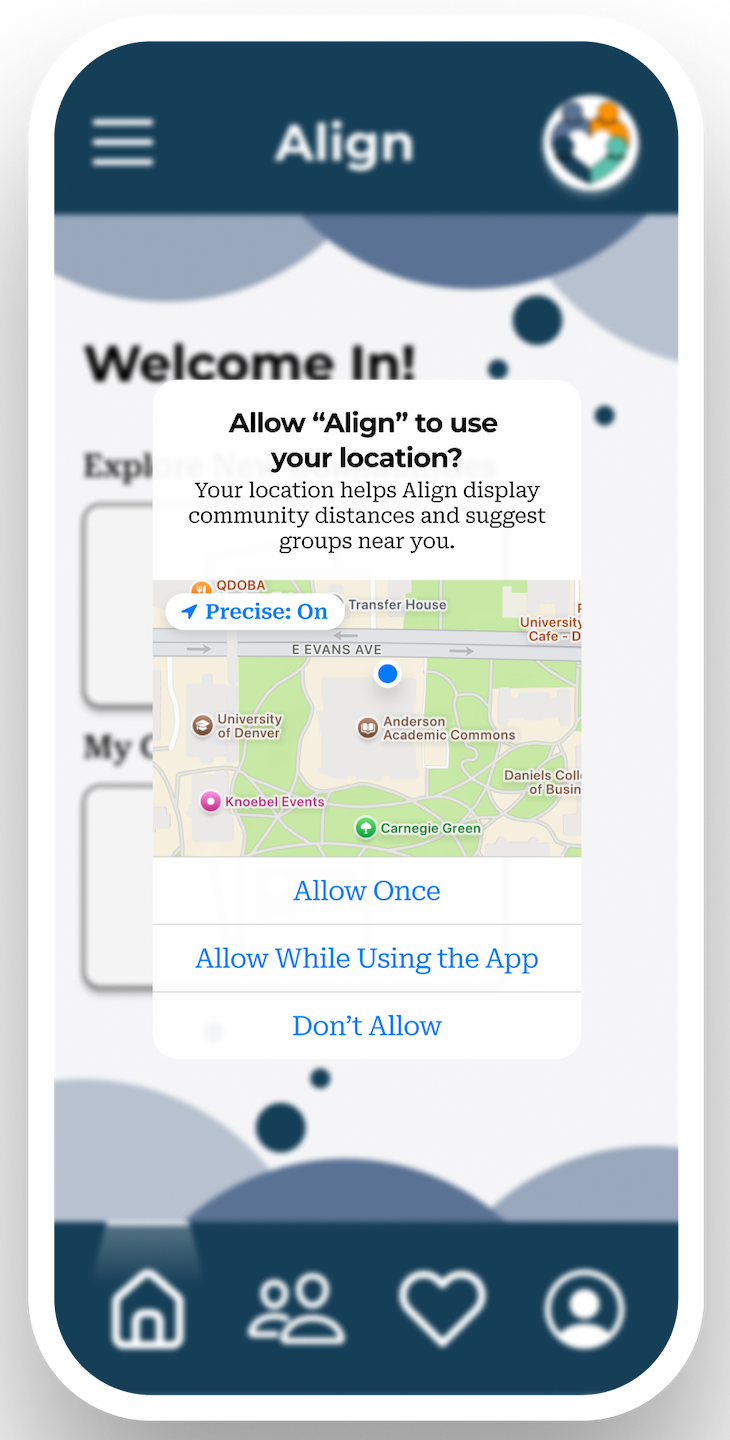
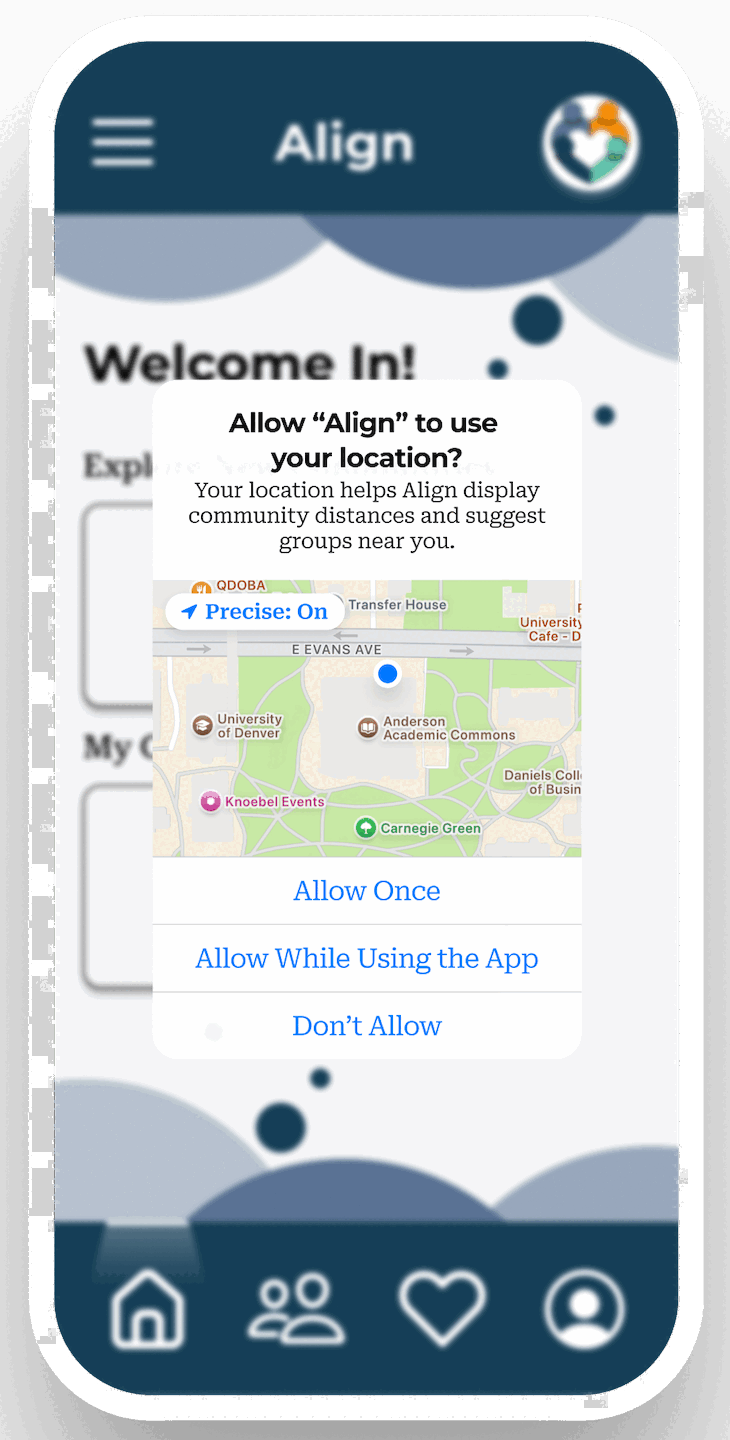
feat: RC project data, popup layout, image renames, placeholder cleanup

diff --git a/src/components/ProjectModal.jsx b/src/components/ProjectModal.jsx
@@ -1,5 +1,5 @@
 import { useEffect, useState } from 'react';
-import { figmaData, getProjectImages } from '../data/portfolio.js';
+import { getProjectImages } from '../data/portfolio.js';
 import styles from './ProjectModal.module.css';
 
 const figmaBadgeIcon = (
@@ -23,12 +23,26 @@ function getFigmaEmbedUrl(url) {
   return `https://www.figma.com/embed?embed_host=share&url=${encodeURIComponent(url)}`;
 }
 
+// Render a longDesc as paragraphs (split on blank lines). If the final paragraph
+// is wrapped in *asterisks*, render it italicized and dimmed as a footer note.
+function renderDescription(text) {
+  const paras = text.split('\n\n').map((p) => p.trim()).filter(Boolean);
+  return paras.map((para, i) => {
+    const isNote = i === paras.length - 1 && para.length > 1 && para.startsWith('*') && para.endsWith('*');
+    return isNote ? (
+      <em key={i} className={styles.descNote}>{para.slice(1, -1).trim()}</em>
+    ) : (
+      <p key={i} className={styles.descPara}>{para}</p>
+    );
+  });
+}
+
 // General-purpose project modal. The `figma: true` flag on the project data is
 // the authoritative switch for the warm Figma panel treatment ("Figma Design"
-// badge, orange accents). Figma media comes from SVG screens (figmaData, matched
-// by title) and/or an interactive prototype iframe (links.figma). Screenshot
-// galleries come from the generated manifest via getProjectImages (a flat array,
-// or a { group: [...] } object rendered as labeled rows).
+// badge, orange accents). Figma media comes from an interactive prototype iframe
+// (links.figma). Screenshot galleries come from the generated manifest via
+// getProjectImages (a flat array, or a { group: [...] } object rendered as
+// labeled rows). Text-heavy projects with images use a stacked layout.
 export default function ProjectModal({ project, onClose }) {
   // Keep the last project mounted so content stays visible while fading out.
   const [current, setCurrent] = useState(null);
@@ -56,11 +70,6 @@ export default function ProjectModal({ project, onClose }) {
   const links = current?.links || {};
   const linkEntries = Object.entries(links).filter(([, v]) => v);
 
-  // SVG phone screens (Lucent/Lattice/Roadrunner) — looked up by title; figmaData
-  // entries passed straight from the home drawer already carry their own screens.
-  const screens = current?.screens
-    || (isFigma ? figmaData.find((f) => f.title === current?.title)?.screens : null)
-    || [];
   const figmaEmbedUrl = getFigmaEmbedUrl(links.figma);
 
   // Manifest images: flat array or grouped object.
@@ -70,7 +79,12 @@ export default function ProjectModal({ project, onClose }) {
   const groupRows = grouped ? Object.entries(grouped).filter(([, imgs]) => imgs.length > 0) : [];
   const hasImages = grouped ? groupRows.length > 0 : flatImages.length > 0;
 
-  const hasMedia = screens.length > 0 || !!figmaEmbedUrl || hasImages;
+  const hasMedia = !!figmaEmbedUrl || hasImages;
+
+  // Long descriptions next to a short image column leave big empty gaps in the
+  // side-by-side layout. For text-heavy projects that also have images, stack the
+  // full-width description on top and scroll the images in a row below.
+  const stacked = description.length > 600 && hasImages;
 
   return (
     <div className={`${styles.modal} ${open ? styles.open : ''}`}>
@@ -87,29 +101,11 @@ export default function ProjectModal({ project, onClose }) {
           </div>
           <button className={styles.close} onClick={onClose} aria-label="Close">✕</button>
         </div>
-        <div className={styles.body}>
+        <div className={`${styles.body} ${stacked ? styles.stacked : ''}`}>
           {current && (
             <>
               {hasMedia && (
                 <div className={styles.mediaCol}>
-                  {screens.length > 0 && (
-                    <div className={styles.screens}>
-                      {screens.map((s, i) => (
-                        <div
-                          className={styles.phoneWrap}
-                          key={i}
-                          style={{ transform: i === 0 ? 'scale(1)' : 'scale(0.88)' }}
-                        >
-                          <div className={styles.phone} style={{ opacity: i === 0 ? 1 : 0.72 }}>
-                            <div className={styles.phoneNotch}></div>
-                            <div className={styles.phoneScreen} dangerouslySetInnerHTML={{ __html: s.svg }}></div>
-                            <div className={styles.phoneHome}></div>
-                          </div>
-                          <div className={styles.phoneLbl}>{s.label}</div>
-                        </div>
-                      ))}
-                    </div>
-                  )}
                   {figmaEmbedUrl && (
                     <div className={styles.embedWrap}>
                       {/* TODO before deploy: confirm Figma prototype is shared as "anyone with the link can view" or iframe will show login wall */}
@@ -169,7 +165,7 @@ export default function ProjectModal({ project, onClose }) {
                   <div className={styles.infoTitle}>{current.title}</div>
                   <div className={`${styles.infoType} ${isFigma ? '' : styles.plain}`}>{current.type}</div>
                 </div>
-                <div className={styles.infoDesc}>{description}</div>
+                <div className={styles.infoDesc}>{renderDescription(description)}</div>
                 {pills.length > 0 && (
                   <div className={styles.tags}>
                     {pills.map((t, i) => (
@@ -184,16 +180,6 @@ export default function ProjectModal({ project, onClose }) {
                         {LINK_LABELS[key] || key} ↗
                       </a>
                     ))}
-                  </div>
-                )}
-                {figmaEmbedUrl && (
-                  <div className={styles.note}>
-                    ↑ Interactive Figma embed inside the site. If the prototype ever fails to load, the Figma link above is the fallback.
-                  </div>
-                )}
-                {screens.length > 0 && (
-                  <div className={styles.note}>
-                    ↑ Illustrated mockups representing Figma designs. Swap in real exported frames or Figma embeds when building.
                   </div>
                 )}
               </div>

diff --git a/src/components/ProjectModal.module.css b/src/components/ProjectModal.module.css
@@ -96,18 +96,19 @@
 @media (max-width: 920px) {
   .body { flex-direction: column; }
 }
-.screens {
-  display: flex;
-  gap: 1.2rem;
-  align-items: flex-end;
-  flex: 1;
-  justify-content: center;
-}
-.phoneWrap {
-  display: flex;
+/* Stacked layout for text-heavy projects that also have images: full-width
+   description on top, images scrolling in a row below. Avoids the big empty gaps
+   that appear when a long description sits beside a short image column. */
+.body.stacked {
   flex-direction: column;
-  align-items: center;
-  gap: 0.6rem;
+}
+.body.stacked .info {
+  width: 100%;
+  order: 1;
+}
+.body.stacked .mediaCol {
+  width: 100%;
+  order: 2;
 }
 .phoneLbl {
   font-size: 0.6rem;
@@ -115,25 +116,12 @@
   text-transform: uppercase;
   color: rgba(232, 240, 252, 0.62);
 }
-.phone {
-  width: 132px;
-  background: #0A0E1A;
-  border: 2px solid rgba(255, 255, 255, 0.11);
-  border-radius: 22px;
-  padding: 10px 8px;
-  box-shadow: 0 14px 40px rgba(0, 0, 0, 0.55), inset 0 1px 0 rgba(255, 255, 255, 0.05);
-}
 .phoneNotch {
   width: 40px;
   height: 6px;
   background: rgba(255, 255, 255, 0.11);
   border-radius: 3px;
   margin: 0 auto 8px;
-}
-.phoneScreen {
-  border-radius: 12px;
-  overflow: hidden;
-  background: #070A12;
 }
 .phoneHome {
   width: 24px;
@@ -172,6 +160,20 @@
   line-height: 1.68;
   color: rgba(232, 240, 252, 0.68);
   font-weight: 300;
+  text-align: left;
+}
+.descPara {
+  margin: 0 0 0.7rem;
+}
+.descPara:last-child {
+  margin-bottom: 0;
+}
+/* Final *asterisk-wrapped* paragraph rendered as a dimmed footer note. */
+.descNote {
+  display: block;
+  margin-top: 0.7rem;
+  font-style: italic;
+  opacity: 0.65;
 }
 .tags {
   display: flex;
@@ -186,14 +188,6 @@
   color: #C4824C;
   border: 0.5px solid rgba(255, 157, 77, 0.16);
 }
-.note {
-  font-size: 0.68rem;
-  color: rgba(232, 240, 252, 0.2);
-  font-style: italic;
-  line-height: 1.5;
-  margin-top: 0.2rem;
-}
-
 /* ── NON-FIGMA (plain) VARIANT — blue accent instead of warm orange ── */
 .panel.plain {
   border-color: rgba(106, 174, 224, 0.28);

diff --git a/src/data/portfolio.js b/src/data/portfolio.js
@@ -45,11 +45,17 @@ export const projects = [
   {
     id: 'roadrunner-connect', num: '04', title: 'Roadrunner Connect', type: 'Mobile · Project Lead',
     desc: 'Campus engagement app for the University of Denver.',
-    shortDesc: 'Interactive campus engagement app I led end-to-end as Project Lead.',
-    longDesc: 'Led Roadrunner Connect, an interactive campus engagement app, as Project Lead. Built the mobile app in Flutter (Dart), the back end with MongoDB/Node.js/Express, and the website in React, with Firebase authentication (Google/iOS), event check-ins, photo/comment uploads, and a rewards system (badges, challenges, giveaways, leaderboards). Ran an Agile team of 5 on two-week sprints and presented updates to 15+ stakeholders.',
-    skills: ['Flutter', 'Firebase', 'MongoDB', 'Figma', 'Mobile & Web Dev', 'HCI', 'Project Management'],
+    shortDesc: 'Full-stack campus engagement app built for and now owned by MSU Denver, combining interactive maps, gamified rewards, and social features. Led end-to-end as Project Lead and Scrum Master, from initial design through public App Store launch.',
+    longDesc: `Roadrunner Connect is a student-built mobile app helping the MSU Denver and broader Denver community discover campus events, check in, earn rewards, and connect with each other. I joined as an intern and grew into the Project Lead and Scrum Master role, overseeing a team of 5 through two-week Agile sprints using ZenHub, daily standups, and OKR tracking. My design concept was selected by stakeholders as the base design the team built from.\n\nI led UI/UX in Figma and built the Flutter mobile frontend and React website, collaborating on the Node.js and MongoDB backend hosted on AWS. Integrations include Google Maps API, Firebase for authentication, Gravatar for team profiles, and a Python-based calendar parser pulling events from multiple MSU Denver and Auraria campus sources including Trumba and Roadrunner Link.\n\nKey features include event check-ins, photo and comment uploads, a feather-based rewards system with a confetti animation, leaderboards, giveaways, badges with earned animations, map and list and calendar views, a social friends system, and a comprehensive admin panel for managing users, events, and placemarks. The admin map tool lets administrators trace building outlines by physically walking the campus, encouraging community presence while keeping the map up to date as campus changes.\n\nI implemented light and dark mode with accessibility standards appropriate for a government-affiliated institution.\n\nI handled marketing through Canva including posters, flyers, and merch, documented progress in SharePoint and GitHub READMEs, and conducted beta launches and user testing sessions with iterative feedback cycles via Qualtrics. Getting approvals through school officials and stakeholders was a regular part of the process, covering branding guidelines, mascot use, and app store compliance. I coordinated a photoshoot with Rowdy, the school mascot, and designed the peeking Rowdy cutout used throughout the app.\n\nEvents presented at or tabled: women's volleyball and men's basketball booths with QR code advertising, Undergraduate Research Conference, Faculty Research Symposium, Presidents Cabinet, CS Advisory Board, CS Community Hours, and an OER Celebration.\n\n*The app is now officially owned by MSU Denver. Because of this, the GitHub repository and internal Figma designs are not publicly shareable, but the live app and its website are available below.*`,
+    skills: ['Flutter', 'Firebase', 'MongoDB', 'Figma', 'React', 'Node.js', 'Python', 'Google Maps API', 'AWS', 'Git/GitHub', 'ZenHub', 'Agile', 'Scrum', 'Mobile & Web Dev', 'Project Management', 'HCI', 'Accessibility', 'UI/UX Design', 'User Testing', 'Canva', 'Qualtrics', 'SharePoint', 'Documentation', 'Stakeholder Communication', 'Marketing', 'Public Speaking', 'Community Outreach', 'App Store Deployment'],
     links: { website: 'https://roadrunnerconnect.co' },
-    lav: true, figma: true,
+    badge: 'Project Lead',
+    // Explicit preview order: Cece & Kade on the left, community hour audience on the right.
+    previewImages: [
+      'figma/roadrunner_connect/community_hour_cece_and_kade.jpg',
+      'figma/roadrunner_connect/community_hour_1_audience.jpg',
+    ],
+    lav: true, figma: false,
   },
   {
     id: 'spiderbyte', num: '05', title: 'SpiderByte', type: 'Hackathon · 2nd place',
@@ -106,29 +112,16 @@ export const figmaData = [
     id: 1, num: '02', title: 'Lucent', type: 'Mobile · Flutter',
     desc: 'AI mental wellness app. Mood tracking, journaling, and AI check-ins. Designed end-to-end in Figma before development.',
     tags: ['Mobile', 'Health', 'Figma', 'Flutter'],
-    screens: [
-      { label: 'Home', svg: `<svg width="116" height="224" viewBox="0 0 116 224" xmlns="http://www.w3.org/2000/svg"><rect width="116" height="224" fill="#0D1020"/><rect x="8" y="10" width="100" height="18" rx="5" fill="#1A1F35"/><circle cx="21" cy="19" r="6" fill="#7B8CDE"/><rect x="33" y="15" width="40" height="4" rx="2" fill="#252B48"/><rect x="78" y="15" width="18" height="4" rx="2" fill="#252B48"/><rect x="8" y="36" width="100" height="56" rx="8" fill="#141828"/><circle cx="58" cy="58" r="16" fill="rgba(123,140,222,0.12)" stroke="#7B8CDE" stroke-width="1"/><text x="58" y="63" text-anchor="middle" fill="#7B8CDE" font-size="14" font-family="sans-serif">✦</text><rect x="16" y="82" width="52" height="4" rx="2" fill="#252B48"/><rect x="16" y="88" width="36" height="3" rx="1.5" fill="#1E2440"/><rect x="8" y="102" width="48" height="44" rx="7" fill="#141828"/><rect x="62" y="102" width="46" height="44" rx="7" fill="#141828"/><rect x="15" y="110" width="30" height="3" rx="1.5" fill="#252B48"/><rect x="15" y="116" width="22" height="10" rx="3" fill="rgba(123,140,222,0.2)"/><rect x="15" y="129" width="26" height="3" rx="1.5" fill="#1A2040"/><rect x="15" y="134" width="18" height="3" rx="1.5" fill="#1A2040"/><rect x="69" y="110" width="30" height="3" rx="1.5" fill="#252B48"/><rect x="69" y="116" width="22" height="10" rx="3" fill="rgba(176,144,224,0.2)"/><rect x="69" y="129" width="26" height="3" rx="1.5" fill="#1A2040"/><rect x="8" y="154" width="100" height="3" rx="1.5" fill="#1A1F35"/><rect x="8" y="164" width="100" height="34" rx="7" fill="#141828"/><rect x="16" y="172" width="62" height="3" rx="1.5" fill="#252B48"/><rect x="16" y="178" width="42" height="3" rx="1.5" fill="#1E2440"/><rect x="84" y="170" width="16" height="16" rx="4" fill="rgba(123,140,222,0.15)"/><rect x="17" y="208" width="18" height="10" rx="3" fill="#1E2440"/><rect x="43" y="208" width="18" height="10" rx="3" fill="rgba(123,140,222,0.22)"/><rect x="69" y="208" width="18" height="10" rx="3" fill="#1E2440"/><rect x="90" y="208" width="18" height="10" rx="3" fill="#1E2440"/></svg>` },
-      { label: 'Journal', svg: `<svg width="116" height="224" viewBox="0 0 116 224" xmlns="http://www.w3.org/2000/svg"><rect width="116" height="224" fill="#0D1020"/><rect x="8" y="10" width="62" height="6" rx="3" fill="#252B48"/><rect x="8" y="20" width="42" height="4" rx="2" fill="#1A1F35"/><rect x="8" y="32" width="100" height="52" rx="8" fill="#141828" stroke="rgba(123,140,222,0.18)" stroke-width="0.5"/><rect x="16" y="42" width="84" height="3" rx="1.5" fill="#252B48"/><rect x="16" y="48" width="72" height="3" rx="1.5" fill="#1A2040"/><rect x="16" y="54" width="77" height="3" rx="1.5" fill="#1A2040"/><rect x="16" y="60" width="57" height="3" rx="1.5" fill="#1A2040"/><rect x="16" y="70" width="32" height="9" rx="3" fill="rgba(123,140,222,0.28)"/><rect x="8" y="94" width="100" height="1" rx="0.5" fill="#1A1F35"/><rect x="8" y="102" width="47" height="6" rx="3" fill="#252B48"/><rect x="8" y="115" width="100" height="30" rx="6" fill="#141828"/><circle cx="23" cy="130" r="9" fill="rgba(176,144,224,0.14)"/><rect x="38" y="123" width="52" height="3" rx="1.5" fill="#252B48"/><rect x="38" y="130" width="40" height="3" rx="1.5" fill="#1A2040"/><rect x="38" y="137" width="30" height="3" rx="1.5" fill="#1A2040"/><rect x="8" y="151" width="100" height="30" rx="6" fill="#141828"/><circle cx="23" cy="166" r="9" fill="rgba(123,140,222,0.14)"/><rect x="38" y="159" width="52" height="3" rx="1.5" fill="#252B48"/><rect x="38" y="166" width="40" height="3" rx="1.5" fill="#1A2040"/><rect x="38" y="173" width="30" height="3" rx="1.5" fill="#1A2040"/><rect x="23" y="195" width="70" height="22" rx="7" fill="#7B8CDE"/><rect x="46" y="203" width="28" height="4" rx="2" fill="rgba(255,255,255,0.72)"/></svg>` }
-    ]
   },
   {
     id: 2, num: '03', title: 'Lattice', type: 'Mobile · Flutter',
     desc: 'AI learning path generator. Grid-inspired UI, onboarding flow, and streaks — all mocked in Figma before development.',
     tags: ['Mobile', 'Education', 'Figma', 'Flutter'],
-    screens: [
-      { label: 'Onboarding', svg: `<svg width="116" height="224" viewBox="0 0 116 224" xmlns="http://www.w3.org/2000/svg"><rect width="116" height="224" fill="#080C10"/><defs><pattern id="g" width="14" height="14" patternUnits="userSpaceOnUse"><path d="M14 0L0 0 0 14" fill="none" stroke="rgba(106,174,224,0.07)" stroke-width="0.5"/></pattern></defs><rect width="116" height="224" fill="url(#g)"/><circle cx="58" cy="54" r="24" fill="rgba(106,174,224,0.07)" stroke="rgba(106,174,224,0.28)" stroke-width="1"/><circle cx="58" cy="54" r="13" fill="rgba(106,174,224,0.1)" stroke="#6AAEE0" stroke-width="1"/><line x1="49" y1="54" x2="67" y2="54" stroke="#6AAEE0" stroke-width="1.5" stroke-linecap="round"/><line x1="58" y1="45" x2="58" y2="63" stroke="#6AAEE0" stroke-width="1.5" stroke-linecap="round"/><line x1="49" y1="45" x2="67" y2="63" stroke="rgba(106,174,224,0.38)" stroke-width="0.8"/><line x1="67" y1="45" x2="49" y2="63" stroke="rgba(106,174,224,0.38)" stroke-width="0.8"/><rect x="25" y="86" width="66" height="7" rx="3.5" fill="#1A2535"/><rect x="33" y="88" width="36" height="3" rx="1.5" fill="#6AAEE0"/><rect x="21" y="99" width="74" height="5" rx="2.5" fill="#1A2535"/><rect x="21" y="107" width="74" height="5" rx="2.5" fill="#1A2535"/><rect x="8" y="120" width="100" height="24" rx="6" fill="#0E1825" stroke="rgba(106,174,224,0.18)" stroke-width="0.5"/><rect x="16" y="128" width="57" height="3" rx="1.5" fill="#1A2535"/><rect x="77" y="126" width="14" height="8" rx="3" fill="rgba(106,174,224,0.28)"/><rect x="8" y="150" width="100" height="24" rx="6" fill="#0E1825" stroke="rgba(106,174,224,0.18)" stroke-width="0.5"/><rect x="16" y="158" width="47" height="3" rx="1.5" fill="#1A2535"/><rect x="77" y="156" width="14" height="8" rx="3" fill="rgba(106,174,224,0.12)"/><rect x="15" y="184" width="86" height="24" rx="7" fill="#6AAEE0"/><rect x="39" y="193" width="38" height="4" rx="2" fill="rgba(255,255,255,0.8)"/></svg>` },
-      { label: 'Path', svg: `<svg width="116" height="224" viewBox="0 0 116 224" xmlns="http://www.w3.org/2000/svg"><rect width="116" height="224" fill="#080C10"/><rect x="8" y="10" width="62" height="5" rx="2.5" fill="#1A2535"/><rect x="8" y="18" width="42" height="3" rx="1.5" fill="#0E1825"/><rect x="8" y="30" width="100" height="40" rx="8" fill="#0E1825" stroke="rgba(106,174,224,0.22)" stroke-width="0.5"/><rect x="16" y="40" width="50" height="3" rx="1.5" fill="#6AAEE0"/><rect x="16" y="46" width="72" height="3" rx="1.5" fill="#1A2535"/><rect x="16" y="52" width="57" height="3" rx="1.5" fill="#1A2535"/><rect x="16" y="58" width="24" height="7" rx="3" fill="rgba(106,174,224,0.18)" stroke="rgba(106,174,224,0.38)" stroke-width="0.5"/><line x1="23" y1="77" x2="23" y2="86" stroke="rgba(106,174,224,0.28)" stroke-width="1" stroke-dasharray="2,2"/><circle cx="23" cy="86" r="5" fill="rgba(106,174,224,0.2)" stroke="#6AAEE0" stroke-width="1"/><rect x="35" y="81" width="72" height="19" rx="5" fill="#0E1825" stroke="rgba(106,174,224,0.14)" stroke-width="0.5"/><rect x="41" y="87" width="47" height="3" rx="1.5" fill="#1A2535"/><rect x="41" y="93" width="32" height="2" rx="1" fill="#0A1220"/><line x1="23" y1="104" x2="23" y2="113" stroke="rgba(106,174,224,0.18)" stroke-width="1" stroke-dasharray="2,2"/><circle cx="23" cy="113" r="5" fill="rgba(106,174,224,0.09)" stroke="rgba(106,174,224,0.38)" stroke-width="1"/><rect x="35" y="108" width="72" height="19" rx="5" fill="#0E1825" stroke="rgba(106,174,224,0.09)" stroke-width="0.5"/><rect x="41" y="114" width="47" height="3" rx="1.5" fill="#1A2535"/><rect x="41" y="120" width="32" height="2" rx="1" fill="#0A1220"/><line x1="23" y1="131" x2="23" y2="140" stroke="rgba(106,174,224,0.08)" stroke-width="1" stroke-dasharray="2,2"/><circle cx="23" cy="140" r="5" fill="rgba(106,174,224,0.04)" stroke="rgba(106,174,224,0.18)" stroke-width="0.5"/><rect x="35" y="135" width="72" height="19" rx="5" fill="#0A1220" stroke="rgba(106,174,224,0.05)" stroke-width="0.5"/><rect x="41" y="141" width="47" height="3" rx="1.5" fill="#0E1825"/><rect x="8" y="168" width="100" height="40" rx="8" fill="#0E1825"/><rect x="16" y="177" width="37" height="3" rx="1.5" fill="#1A2535"/><rect x="16" y="184" width="82" height="3" rx="1.5" fill="#0A1220"/><rect x="16" y="190" width="62" height="3" rx="1.5" fill="#0A1220"/><rect x="16" y="198" width="42" height="7" rx="3" fill="rgba(106,174,224,0.22)"/></svg>` }
-    ]
   },
   {
-    /* TODO: remove SVG mockups once real screenshots are added to public/figma/roadrunner_connect/ */
     id: 3, num: '04', title: 'Roadrunner Connect', type: 'Mobile · Campus App',
     desc: 'Campus engagement app — events, clubs, and student profiles. Multiple Figma iteration rounds before development.',
     tags: ['Mobile', 'Social', 'Figma', 'Flutter'],
-    screens: [
-      { label: 'Events', svg: `<svg width="116" height="224" viewBox="0 0 116 224" xmlns="http://www.w3.org/2000/svg"><rect width="116" height="224" fill="#080A0F"/><rect x="0" y="0" width="116" height="38" fill="#0D1118"/><circle cx="21" cy="19" r="10" fill="rgba(220,60,60,0.14)" stroke="rgba(220,60,60,0.38)" stroke-width="0.8"/><rect x="37" y="15" width="44" height="4" rx="2" fill="#1A1E28"/><rect x="86" y="13" width="22" height="11" rx="3" fill="rgba(220,60,60,0.18)"/><rect x="8" y="46" width="100" height="50" rx="7" fill="rgba(220,60,60,0.05)" stroke="rgba(220,60,60,0.14)" stroke-width="0.5"/><rect x="16" y="56" width="57" height="5" rx="2.5" fill="#1E2535"/><rect x="16" y="64" width="42" height="3" rx="1.5" fill="#151B25"/><rect x="16" y="70" width="72" height="3" rx="1.5" fill="#151B25"/><rect x="16" y="77" width="30" height="9" rx="3" fill="rgba(220,60,60,0.2)"/><rect x="8" y="104" width="48" height="44" rx="7" fill="#0D1118" stroke="rgba(255,255,255,0.05)" stroke-width="0.5"/><rect x="62" y="104" width="46" height="44" rx="7" fill="#0D1118" stroke="rgba(255,255,255,0.05)" stroke-width="0.5"/><rect x="15" y="111" width="29" height="16" rx="3" fill="#151B25"/><rect x="15" y="130" width="37" height="3" rx="1.5" fill="#1E2535"/><rect x="15" y="136" width="24" height="3" rx="1.5" fill="#151B25"/><rect x="68" y="111" width="29" height="16" rx="3" fill="#151B25"/><rect x="68" y="130" width="37" height="3" rx="1.5" fill="#1E2535"/><rect x="68" y="136" width="24" height="3" rx="1.5" fill="#151B25"/><rect x="8" y="156" width="100" height="28" rx="6" fill="#0D1118" stroke="rgba(255,255,255,0.04)" stroke-width="0.5"/><rect x="16" y="163" width="57" height="3" rx="1.5" fill="#1E2535"/><rect x="16" y="170" width="42" height="3" rx="1.5" fill="#151B25"/><rect x="84" y="160" width="17" height="13" rx="3" fill="rgba(220,60,60,0.14)"/><rect x="0" y="200" width="116" height="24" fill="#0D1118"/><rect x="19" y="208" width="15" height="9" rx="2" fill="#1E2535"/><rect x="43" y="208" width="15" height="9" rx="2" fill="rgba(220,60,60,0.24)"/><rect x="67" y="208" width="15" height="9" rx="2" fill="#1E2535"/><rect x="91" y="208" width="15" height="9" rx="2" fill="#1E2535"/></svg>` },
-      { label: 'Profile', svg: `<svg width="116" height="224" viewBox="0 0 116 224" xmlns="http://www.w3.org/2000/svg"><rect width="116" height="224" fill="#080A0F"/><rect x="0" y="0" width="116" height="72" fill="#0D1118"/><circle cx="58" cy="40" r="21" fill="#151B25" stroke="rgba(220,60,60,0.28)" stroke-width="1"/><circle cx="58" cy="33" r="9" fill="#1E2535"/><ellipse cx="58" cy="53" rx="14" ry="8" fill="#1E2535"/><rect x="34" y="68" width="48" height="4" rx="2" fill="#1E2535"/><rect x="8" y="82" width="100" height="20" rx="5" fill="#0D1118" stroke="rgba(255,255,255,0.04)" stroke-width="0.5"/><rect x="16" y="90" width="30" height="3" rx="1.5" fill="#1E2535"/><rect x="16" y="96" width="22" height="3" rx="1.5" fill="#151B25"/><rect x="72" y="88" width="28" height="3" rx="1.5" fill="#1E2535"/><rect x="72" y="94" width="20" height="3" rx="1.5" fill="#151B25"/><rect x="8" y="110" width="100" height="1" rx="0.5" fill="#151B25"/><rect x="8" y="118" width="100" height="24" rx="5" fill="#0D1118" stroke="rgba(255,255,255,0.04)" stroke-width="0.5"/><rect x="16" y="127" width="57" height="3" rx="1.5" fill="#1E2535"/><rect x="90" y="124" width="10" height="8" rx="2" fill="#151B25"/><rect x="8" y="148" width="100" height="24" rx="5" fill="#0D1118" stroke="rgba(255,255,255,0.04)" stroke-width="0.5"/><rect x="16" y="157" width="47" height="3" rx="1.5" fill="#1E2535"/><rect x="90" y="154" width="10" height="8" rx="2" fill="#151B25"/><rect x="8" y="178" width="100" height="24" rx="5" fill="#0D1118" stroke="rgba(220,60,60,0.1)" stroke-width="0.5"/><rect x="16" y="187" width="47" height="3" rx="1.5" fill="#1E2535"/><rect x="90" y="184" width="10" height="8" rx="2" fill="rgba(220,60,60,0.18)"/></svg>` }
-    ]
   }
 ];
 
@@ -156,11 +149,19 @@ export const workExperience = [
     org: 'MSU Denver',
     location: 'Denver, CO',
     bullets: [
-      'Led "Roadrunner Connect," an interactive campus engagement app — Flutter (Dart) mobile app, MongoDB/Node.js/Express back end, and a React website.',
-      'Integrated Firebase authentication (Google/iOS), Gravatar team profiles, and optimized API calls by indexing queries.',
-      'Implemented event check-ins, photo/comment uploads, and a rewards system (badges, challenges, giveaways, leaderboards).',
-      'Ran an Agile team of 5 on two-week sprints — task distribution and tracking via ZenHub, daily standups, team OKRs, and Git/GitHub.',
-      'Presented updates to 15+ stakeholders, created Qualtrics surveys, and deployed to the app stores.',
+      'Led "Roadrunner Connect," a campus engagement mobile app, as Project Lead and Scrum Master — steering a team of 5 through two-week Agile sprints with task tracking via ZenHub, daily standups, and team OKRs.',
+      'Pitched the design concept that stakeholders selected as the base design the team built the app from.',
+      'Built the Flutter (Dart) mobile frontend and React website, owning UI/UX design in Figma from concept to launch.',
+      'Developed the Node.js/Express and MongoDB backend on AWS, indexing queries to optimize API performance.',
+      'Integrated the Google Maps API and built a custom admin panel to manage users, events, and placemarks — including a walk-to-trace tool that lets admins outline campus buildings on foot to keep the map current.',
+      'Implemented Firebase authentication (Google/iOS) and Gravatar-based team profiles.',
+      'Engineered a Python calendar parser aggregating events from multiple MSU Denver and Auraria sources, including Trumba and Roadrunner Link.',
+      'Shipped a feather-based rewards system with confetti animations, badges, leaderboards, giveaways, and a social friends system, alongside event check-ins and photo/comment uploads.',
+      'Implemented light and dark mode meeting accessibility standards appropriate for a government-affiliated institution.',
+      'Drove marketing through Canva — posters, flyers, and merch — and ran beta launches with iterative Qualtrics user-testing and feedback cycles.',
+      'Managed stakeholder communication and approval processes spanning branding guidelines, mascot use, and App Store compliance.',
+      'Coordinated a photoshoot with Rowdy, the school mascot, and designed the peeking Rowdy cutout used throughout the app.',
+      'Presented and tabled at the Undergraduate Research Conference, Faculty Research Symposium, Presidents Cabinet, CS Advisory Board, CS Community Hours, and athletics booths with QR-code advertising.',
     ],
     skills: ['Flutter', 'Firebase', 'MongoDB', 'Mobile & Web Dev', 'Project Management', 'HCI'],
     links: { website: 'https://roadrunnerconnect.co' },

diff --git a/src/components/Portfolio.jsx b/src/components/Portfolio.jsx
@@ -2,7 +2,7 @@ import { useState, useEffect, useMemo } from 'react';
 import Nav from './Nav.jsx';
 import Footer from './Footer.jsx';
 import ProjectModal from './ProjectModal.jsx';
-import { projects, workExperience, education, certifications, figmaData, getProjectImages } from '../data/portfolio.js';
+import { projects, workExperience, education, certifications, getProjectImages } from '../data/portfolio.js';
 import styles from './Portfolio.module.css';
 
 const TABS = [
@@ -39,14 +39,6 @@ function getPreviewImages(project) {
     return Object.values(data).filter((arr) => arr.length > 0).slice(0, 2).map((arr) => arr[0]);
   }
   return [];
-}
-
-// Figma phone-mockup screens live in figmaData; attach them by title so the
-// modal can show them for Figma projects opened from the portfolio.
-function withScreens(project) {
-  if (!project) return null;
-  const fig = figmaData.find((f) => f.title === project.title);
-  return fig ? { ...project, screens: fig.screens } : project;
 }
 
 function TimelineEntry({ open, onToggle, expandable, header, children }) {
@@ -192,7 +184,7 @@ export default function Portfolio() {
                       <button
                         type="button"
                         className={styles.detailBtn}
-                        onClick={() => setModalProject(withScreens(selected))}
+                        onClick={() => setModalProject(selected)}
                       >
                         Open full detail ↗
                       </button>